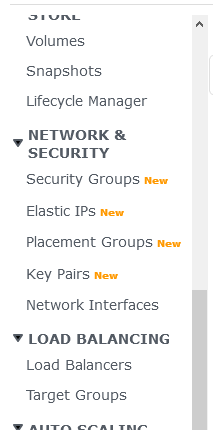
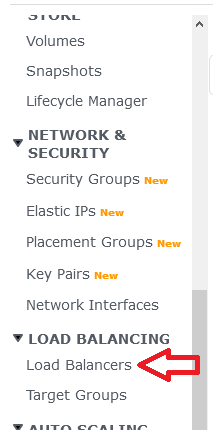
fixes pre event
fixed images
moved crating user to project to avoid issuse

Changed region(s): [[0.6479, 0.786, 0.9577, 0.907]]

diff --git a/content/10_Getting_Started/1_aws_event_engine.md b/content/10_Getting_Started/1_aws_event_engine.md
@@ -7,9 +7,7 @@ weight: 11
 
 ### Logging into AWS Event Engine
 
-To complete this workshop, you are provided with an AWS account via the AWS Event Engine service. A 12-digit hash will be provided to you by event staff - this is your unique access code.
-eg:
-## `null`
+To complete this workshop, you are provided with an AWS account via the AWS Event Engine service. A 12-digit hash will be provided to you by event staff.
 
 
 1. Go to https://dashboard.eventengine.run to log into AWS Event Engine.
@@ -50,7 +48,7 @@ On the Left hand side, scroll down until you see the **LOAD BALANCING** section 
 
 Select the Load Balancer , and copy the **DNS Name**, This is our Jira Server address.
 
-![left_menu_lb](/images/10_Getting_Started/Inkedlb_list_LI.jpg)
+![Inkedlb_list_LI](/images/10_Getting_Started/Inkedlb_list_LI.jpg)
 
 Input this address to your web browser to access Jira.
 
@@ -63,11 +61,11 @@ In the "Setup application properties" page the we see,
 Leave the values as is, and click **Next** .
 
 In the "Specify your license key" page we need to input a trial license.
-Click the **Generate a Jira Trial License** link, and follow the instruction on getting a license number.
+Input the Trial License given to you by the staff.
 
 ![jira_server_init_2](/images/10_Getting_Started/jira_server_init_2.png)
 
-When you have one, copy it back into the page, and click **Next**.
+Then click **Next**.
 
 In the "Setup An Administrator Account" page we setup our main user.  
 For our workshop, lets create a user named **Jordan**, 
@@ -85,7 +83,3 @@ In the "Set up email notifications" page, choose **Later**, and then choose **Fi
 In the first "Welcome to Jira" page, choose a language and then choose **Continue**.  
 In the second "Welcome to Jira" page, choose an avatar for your profile, if you wish,
 and then choose **Next**.
-
-{{% notice note %}}
-Click [here]({{< ref "3_user_mgmt.md" >}}) To continue to user creation.
-{{% /notice %}}

diff --git a/content/30_Creating_Backlog/User_mgmt.md b/content/30_Creating_Backlog/User_mgmt.md
@@ -1,7 +1,7 @@
 ---
 title: "User Management Page"
 chapter: true
-weight: 13
+weight: 33
 ---
 
 ## User Management Page

diff --git a/content/30_Creating_Backlog/Create_User.md b/content/30_Creating_Backlog/Create_User.md
@@ -1,7 +1,7 @@
 ---
 title: "Creating a user"
 chapter: true
-weight: 14
+weight: 34
 ---
 
 ## Creating a User
